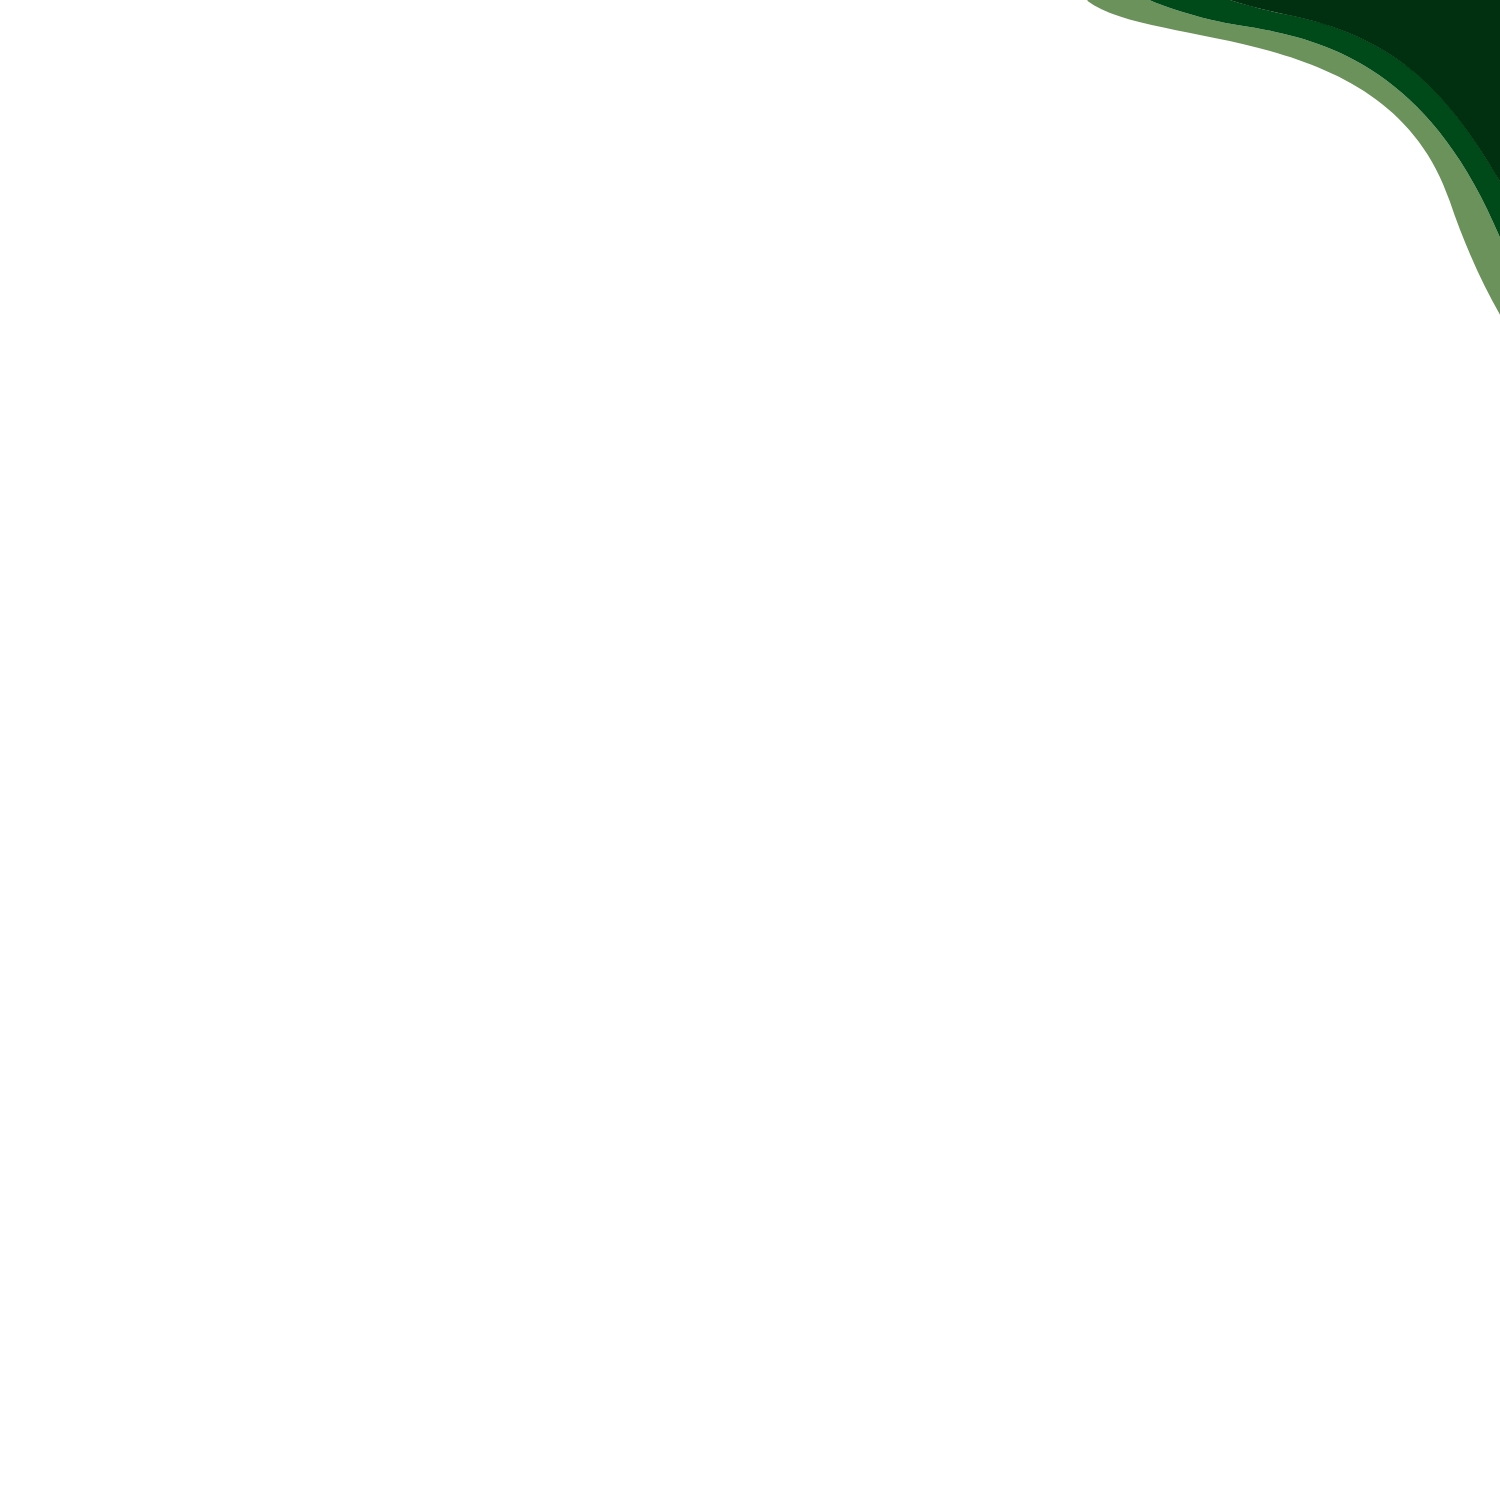
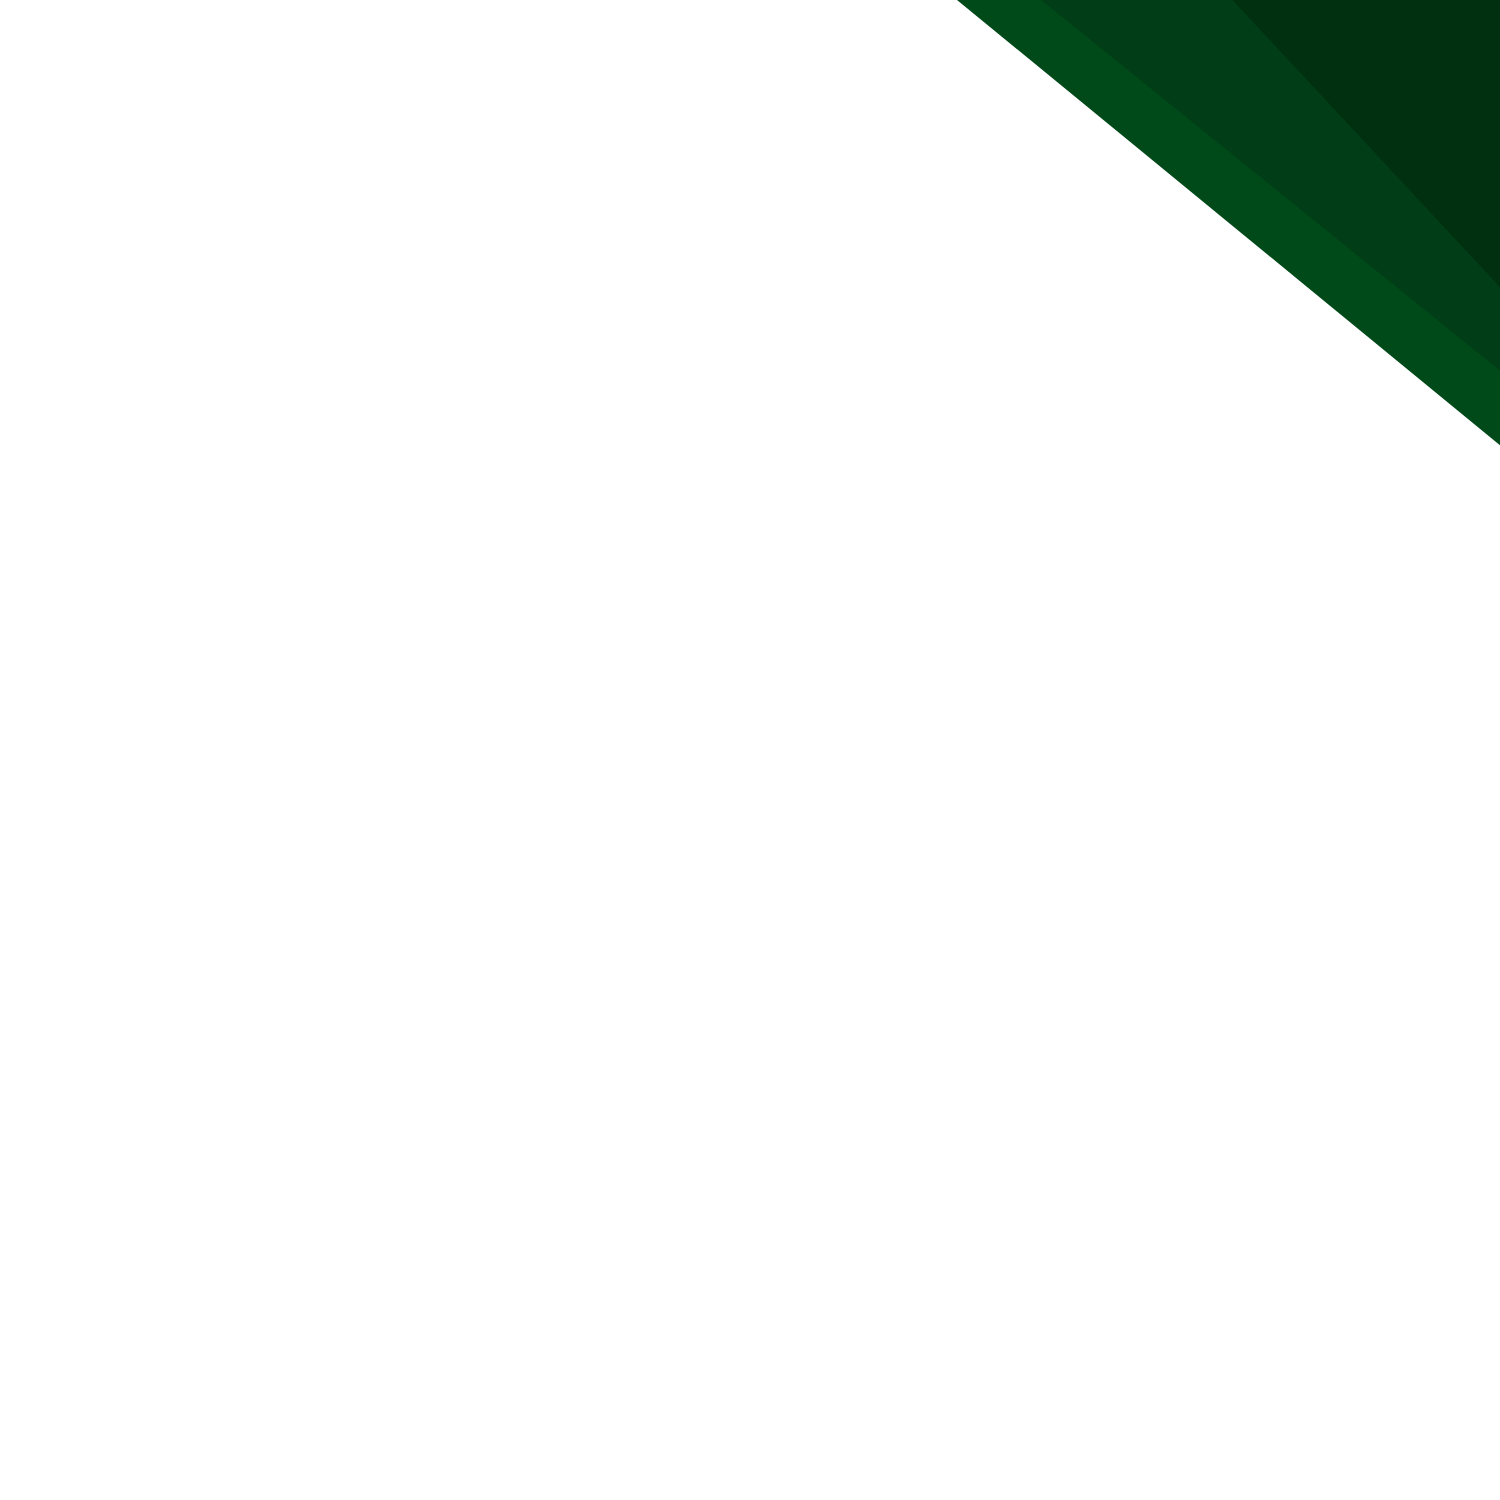
added qs module

Changed region(s): [[0.644, 0.0, 1.0, 0.3067]]

diff --git a/middleware/api/v1/index.js b/middleware/api/v1/index.js
@@ -1,20 +1,16 @@
 const httpProxy = require('http-proxy')
-let API_URL = process.env.LOGIC_APP_URL
+let API_URL = this.$config.logicAppUrl
 const proxy = httpProxy.createProxyServer({
   target: API_URL,
-  secure: false,
+  secure: true,
   changeOrigin: true
 })
+const qs = require("qs"); 
+// const API_URL = process.env.LOGIC_APP_URL
 
 export default async function(req, res, next) {
-  console.log(API_URL);
-  // await fetch(API_URL, {
-  //   method: 'POST',
-  //   body: JSON.stringify(req.body),
-  //   headers: {
-  //   'Content-Type': 'application/json',
-  //   'Access-Control-Allow-Origin': 'https://localhost:3000'
-  //   }
-// })
-    proxy.web(req, res, {});
+  req.url = qs.stringify(req.query, {
+    addQueryPrefix: true
+  })
+    proxy.web(req, res, {target: API_URL});
 }

diff --git a/pages/contact.vue b/pages/contact.vue
@@ -99,7 +99,6 @@ export default {
           headers: {
           'Content-Type': 'application/json',
           'Connection': 'keep-alive',
-          'access-control-allow-origin': 'null'
           }
       });
         this.sent = true;
@@ -173,9 +172,11 @@ export default {
   background-image: url('~static/background.png');
   background-repeat: no-repeat;
   background-size: cover;
-  width: 100%;
+  width: 50%;
   height: 100vh;
-  position: relative;
+  position: absolute;
+  top: 0;
+  right: 0;
 }
 
 .form-background {

diff --git a/pages/index.vue b/pages/index.vue
@@ -59,9 +59,11 @@ export default {
   background-image: url('~static/background.png');
   background-repeat: no-repeat;
   background-size: cover;
-  width: 100%;
+  width: 80%;
   height: 100vh;
   position: absolute;
+  top: 0;
+  right: 0;
 }
 
 .background-lower {
@@ -70,7 +72,7 @@ export default {
   background-image: url('~static/background lower.png');
   background-repeat: no-repeat;
   background-size: cover;
-  width: 50%;
+  width: 70%;
   height: 100vh;
   position: absolute;
 }
